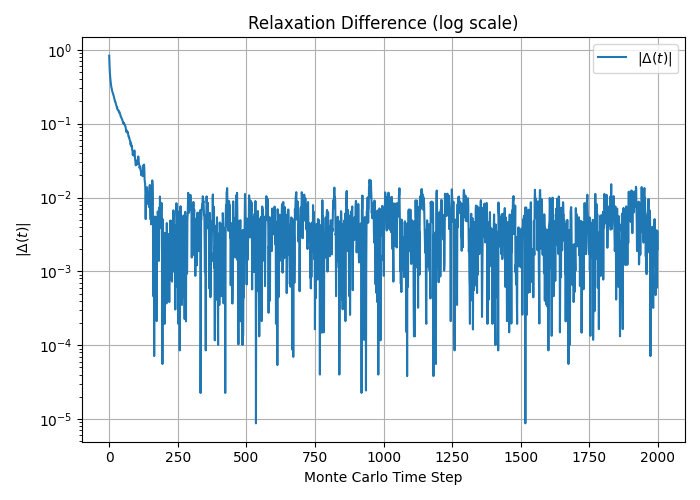
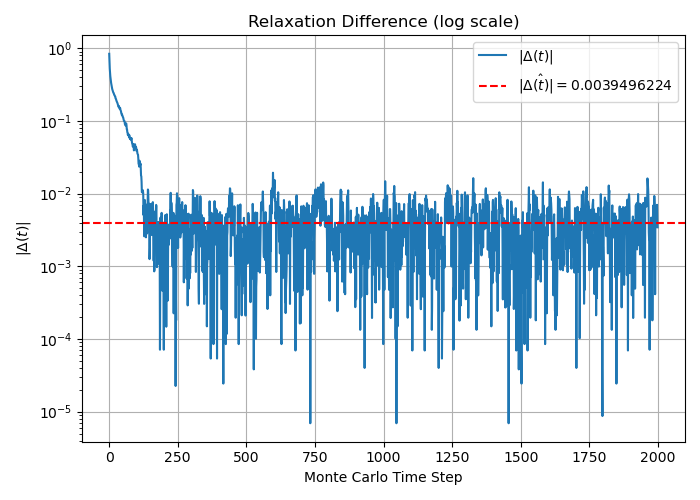
a

diff --git a/code/ising_relaxation_gpt_fast.py b/code/ising_relaxation_gpt_fast.py
@@ -6,10 +6,10 @@ from numba import njit
 
 # 参数设置
 L = 16
-T = 0.5 * np.log(1 + np.sqrt(2))  # 临界温度
+T = 1/(0.5 * np.log(1 + np.sqrt(2)) ) # 临界温度
 J = 1
 n_steps = 2000
-n_runs = 200
+n_runs = 1000
 
 @njit
 def init_lattice(L):
@@ -60,8 +60,8 @@ def run_multiple_simulations():
     mean_energies = np.mean(all_energies, axis=0)
     return mean_energies
 
-def power_law(t, a, b):
-    return a * t**b
+def power_law(t, a, b,c):
+    return a * t**b+c
 
 def exp_decay(t, a, tau):
     return a * np.exp(-t / tau)
@@ -70,7 +70,7 @@ if __name__ == "__main__":
     energies = run_multiple_simulations()
     energies_smooth = uniform_filter1d(energies, size=1000)
 
-    E_inf = np.mean(energies[-5000:])
+    E_inf = np.mean(energies[-1000:])
     Delta = energies - E_inf
 
     plt.figure(figsize=(7,5))
@@ -85,11 +85,14 @@ if __name__ == "__main__":
     plt.savefig("./images/energy_relaxation_smooth.png")
     plt.show()
 
+    Delta_inf = np.mean(abs(Delta[-1000:]))
     t_arr = np.arange(len(Delta))
     plt.figure(figsize=(7,5))
     plt.semilogy(t_arr, np.abs(Delta), label=r"$|\Delta(t)|$")
+    plt.axhline((Delta_inf), color='r', linestyle='--', label=f"$\\hat{{|\\Delta(t)| }}= {((Delta_inf)):.10f}$")
     plt.xlabel("Monte Carlo Time Step")
     plt.ylabel(r"$|\Delta(t)|$")
+    # plt.rc('text', usetex=True)  # Enable LaTeX rendering for labels
     plt.title("Relaxation Difference (log scale)")
     plt.grid()
     plt.legend()
@@ -97,22 +100,22 @@ if __name__ == "__main__":
     plt.savefig("./images/energy_relaxation_logscale.png")
     plt.show()
 
-    mask = (t_arr <1000)
-    try:
-        popt, pcov = curve_fit(power_law, t_arr[mask], np.abs(Delta[mask]), p0=(1.0, -0.5))
-        a_fit, b_fit = popt
-        print(f"Power-law fit: \u0394(t) ~ t^{b_fit:.3f}")
+    # mask = (t_arr < 200)
+    # try:
+    #     popt, pcov = curve_fit(power_law, t_arr[mask], np.abs(Delta[mask]), p0=(1.0, -0.5))
+    #     a_fit, b_fit,c_fit = popt
+    #     print(f"Power-law fit: \u0394(t) ~ t^{b_fit:.3f}")
 
-        plt.figure(figsize=(7,5))
-        plt.semilogy(t_arr, np.abs(Delta), label="Data")
-        plt.semilogy(t_arr, power_law(t_arr, *popt), '--', label=fr"Fit: $\Delta(t) \propto t^{{{b_fit:.2f}}}$")
-        plt.xlabel("Monte Carlo Time Step")
-        plt.ylabel(r"$|\Delta(t)|$")
-        plt.title("Relaxation Fit (Power Law)")
-        plt.legend()
-        plt.grid()
-        plt.tight_layout()
-        plt.savefig("./images/energy_relaxation_fit.png")
-        plt.show()
-    except Exception as e:
-        print(f"Fitting failed: {e}")
+    #     plt.figure(figsize=(7,5))
+    #     plt.semilogy(t_arr, np.abs(Delta), label="Data")
+    #     plt.semilogy(t_arr, power_law(t_arr, *popt), '--', label=fr"Fit: $\Delta(t) \propto t^{{{b_fit:.2f}}}$")
+    #     plt.xlabel("Monte Carlo Time Step")
+    #     plt.ylabel(r"$|\Delta(t)|$")
+    #     plt.title("Relaxation Fit (Power Law)")
+    #     plt.legend()
+    #     plt.grid()
+    #     plt.tight_layout()
+    #     plt.savefig("./images/energy_relaxation_fit.png")
+    #     plt.show()
+    # except Exception as e:
+    #     print(f"Fitting failed: {e}")

diff --git a/README.md b/README.md
@@ -351,7 +351,6 @@ $$\beta_c = \frac{1}{2}\ln(1 + \sqrt{2})$$
 为了进一步探究经过多久可以弛豫到稳定状态，我们可以计算能量的标准差 $\sigma_E$，并观察其随时间的变化。
 ![alt text](images/energy_relaxation_logscale.png)
 
-
 2. 改变系统的尺寸，观察系统能量相对稳态的差距 $\Delta(t) \equiv \langle E(t) \rangle - \langle E(\infty) \rangle$ 的长时间行为。你发现了什么规律？系统尺寸对这个规律有怎样的影响？临界温度在这个问题中可能有什么意义（3分） hint: 谨慎地确定 $\langle E(\infty) \rangle$.
 
 
